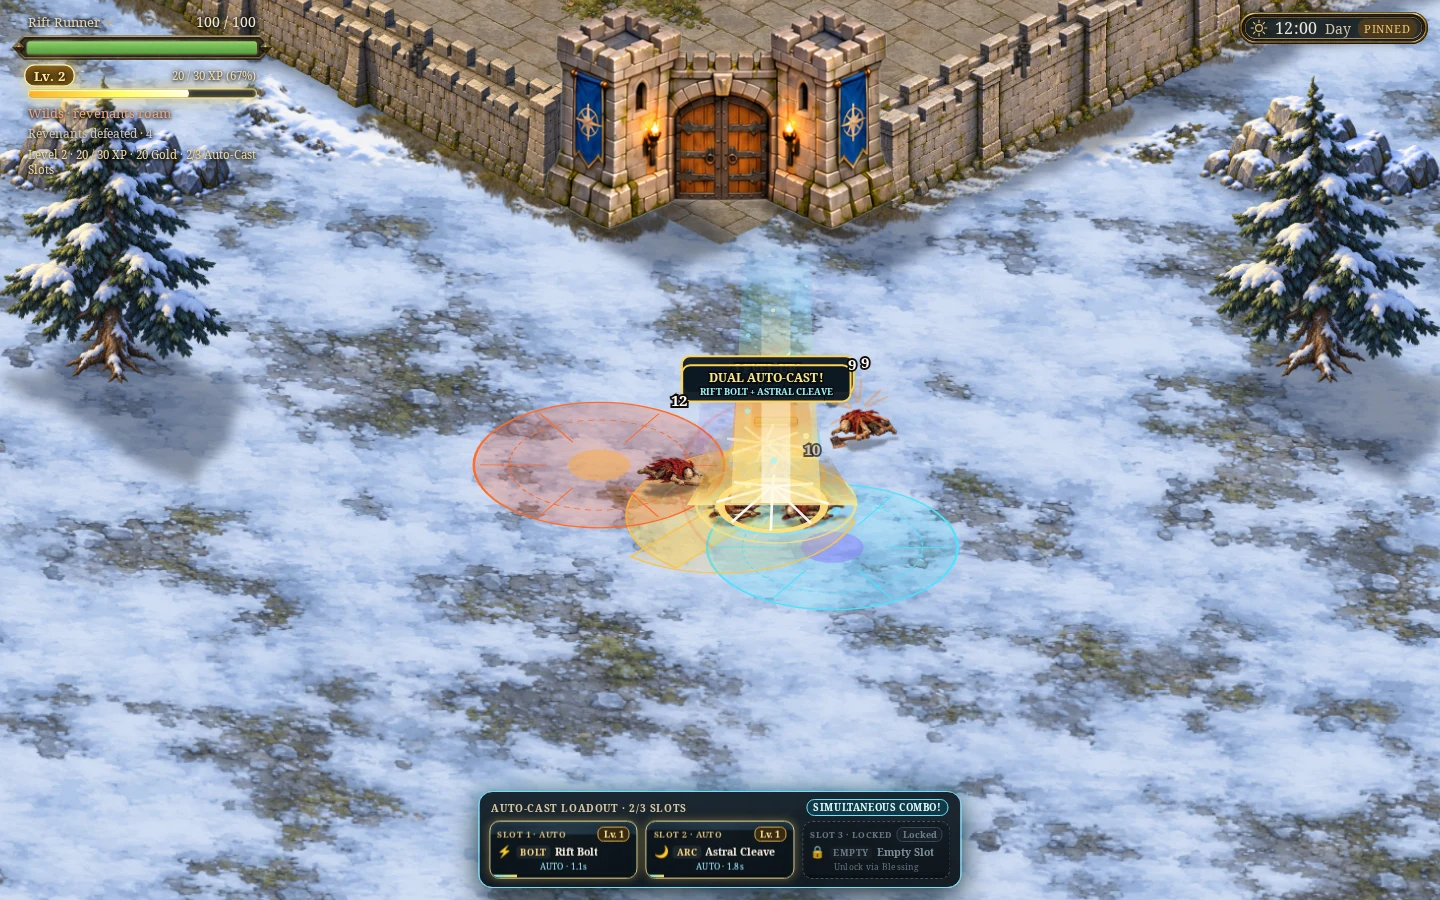
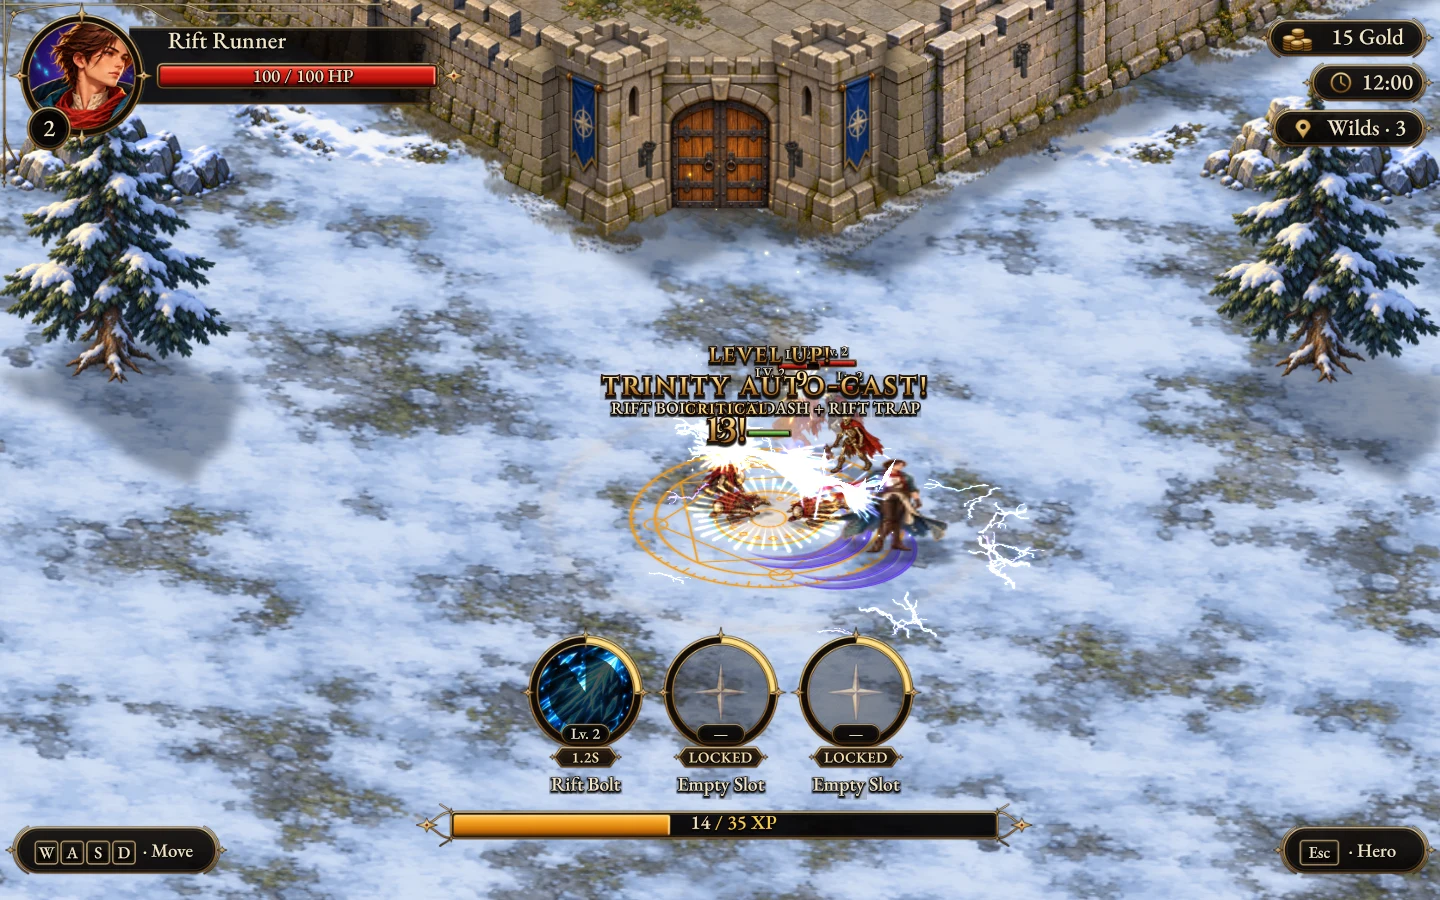
feat(combat-vfx): render flying damage, crit, combo, and level-up text without bubble or frame

diff --git a/src/stronghold/combat-vfx.ts b/src/stronghold/combat-vfx.ts
@@ -1,4 +1,4 @@
-import {Container,Graphics} from 'pixi.js';
+import {Container} from 'pixi.js';
 import {MsdfText} from '../typography/text';
 import {tilePoint} from './terrain';
 import {rollHit,reach,skillRank,skillDamageMultiplier,skillAreaMultiplier,skillCooldownMs,type Progression} from './progression';
@@ -112,11 +112,11 @@ export function createCombatVfx(o:{
  // Live counts for automated verification (scripts read snapshot()).
  const vfxStats:Record<string,string>={};
 
- // Pixi MSDF floating combat text & banner layer
+ // Pixi MSDF floating combat text & banner layer (frameless / bubble-free)
  const floatsLayer=new Container();
  floatsLayer.zIndex=45;
  o.layer.addChild(floatsLayer);
- type FloatView={root:Container;badge:Graphics;main:MsdfText;sub?:MsdfText;kind:FloatKind;text:string;subtext?:string};
+ type FloatView={root:Container;main:MsdfText;sub?:MsdfText;kind:FloatKind;text:string;subtext?:string};
  const floatViews=new Map<number,FloatView>();
 
  let nextId=1,origin={x:0,y:0,scale:1};
@@ -532,48 +532,32 @@ export function createCombatVfx(o:{
   fx.frame(fxDtMs/1000);fxDtMs=0;
   const k=origin.scale;
 
-  // MSDF Floating Combat Text & Level-Up / Trinity Combo Banner
+  // MSDF Floating Combat Text & Level-Up / Trinity Combo Text (frameless, no bubble/badge)
   const activeFloatIds=new Set<number>();
   for(const fl of floats){
    activeFloatIds.add(fl.id);
    let fv=floatViews.get(fl.id);
    if(!fv){
     const root=floatsLayer.addChild(new Container());
-    const badge=root.addChild(new Graphics());
-    if(fl.kind==='crit'){
-     const drawStar=(rx:number,ry:number,pts:number,color:number)=>{
-      const poly:number[]=[];
-      for(let i=0;i<pts*2;i++){
-       const a=(i*Math.PI)/pts-Math.PI/2;
-       const r=i%2===0?1:(i%4===1?.56:.68);
-       poly.push(Math.cos(a)*rx*r,Math.sin(a)*ry*r);
-      }
-      badge.poly(poly,true).fill({color,alpha:0.95}).stroke({color:0x240404,width:2});
-     };
-     drawStar(44,26,12,0xd61f1f);
-     drawStar(34,19,12,0xff9f1c);
-    }else if(fl.kind==='banner'){
-     const hasSub=Boolean(fl.subtext);
-     const bw=hasSub?Math.max(190,Math.min(280,(fl.subtext?.length??0)*6.2+34)):154;
-     const bh=hasSub?44:34;
-     badge.roundRect(-bw/2,-bh/2,bw,bh,8).fill({color:0x140d07,alpha:0.92}).stroke({color:0xe2bd72,width:2});
-    }
     const role=fl.kind==='crit'?'combat-crit':fl.kind==='banner'?'combat-banner':fl.kind==='incoming'?'combat-incoming':fl.kind==='heal'?'combat-heal':'combat-hit';
-    const main=root.addChild(new MsdfText(role,fl.text,fl.kind==='banner'?{size:18}:{size:fl.kind==='crit'?24:18}));
+    const main=root.addChild(new MsdfText(role,fl.text,fl.kind==='banner'?{size:20}:{size:fl.kind==='crit'?26:19}));
     let sub:MsdfText|undefined;
     if(fl.subtext){
      sub=root.addChild(new MsdfText(fl.kind==='crit'?'combat-crit-label':'combat-banner-sub',fl.subtext,fl.kind==='banner'?{size:13}:{size:11}));
     }
     if(fl.kind==='crit'){
-     if(sub)sub.place(0,-10,0.5);
+     if(sub)sub.place(0,-12,0.5);
      main.place(0,8,0.5);
     }else if(fl.kind==='banner'){
      main.place(0,sub?-2:6,0.5);
      if(sub)sub.place(0,14,0.5);
+    }else if(fl.kind==='heal'&&sub){
+     sub.place(0,-9,0.5);
+     main.place(0,7,0.5);
     }else{
      main.place(0,6,0.5);
     }
-    fv={root,badge,main,sub,kind:fl.kind,text:fl.text,subtext:fl.subtext};
+    fv={root,main,sub,kind:fl.kind,text:fl.text,subtext:fl.subtext};
     floatViews.set(fl.id,fv);
    }
    const base=toScreen(fl.u,fl.v),t=fl.age/fl.duration;
@@ -632,7 +616,7 @@ export function createCombatVfx(o:{
   shakeOffset,
   cooldown:(id:SkillId)=>Math.max(0,cooldowns[id]??0),
   snapshot:()=>({
-   activeFloats:floats.map(f=>({kind:f.kind,text:f.text,subtext:f.subtext,u:+f.u.toFixed(2),v:+f.v.toFixed(2),scale:+f.scale.toFixed(2)})),
+   activeFloats:floats.map(f=>{const fv=floatViews.get(f.id);const hasBubbleOrFrame=Boolean(fv&&fv.root.children.some(c=>!(c instanceof MsdfText)));return {kind:f.kind,text:f.text,subtext:f.subtext,u:+f.u.toFixed(2),v:+f.v.toFixed(2),scale:+f.scale.toFixed(2),frameless:!hasBubbleOrFrame};}),
    activeProjectiles:projectiles.map(p=>({id:p.id,kind:p.kind,u:+p.u.toFixed(2),v:+p.v.toFixed(2),vx:+p.vx.toFixed(2),vy:+p.vy.toFixed(2),traveled:+p.traveled.toFixed(2)})),
    activeAoEs:aoes.map(a=>({id:a.id,kind:a.kind,shape:a.shape,u:+a.u.toFixed(2),v:+a.v.toFixed(2),radius:+a.radius.toFixed(2),progress:+(a.age/a.duration).toFixed(2)})),
    activeImpacts:impacts.map(i=>({id:i.id,kind:i.kind,u:+i.u.toFixed(2),v:+i.v.toFixed(2),radius:+i.radius.toFixed(2)})),

diff --git a/src/typography/tokens.ts b/src/typography/tokens.ts
@@ -64,14 +64,14 @@ export const ROLES={
  // World overhead labels (allies, enemies, gates).
  'tag-ally':{font:'body',size:15,letterSpacing:.3,fill:IVORY,shadow:snowShadow,outline:{color:0x0a0604,alpha:.85,width:.9}},
  'tag-foe':{font:'body',size:13,letterSpacing:.3,fill:0xf2e4c4,shadow:snowShadow,outline:{color:0x0a0604,alpha:.85,width:.8}},
- // Floating combat text & banners.
- 'combat-hit':{font:'display',size:22,letterSpacing:.4,fill:0xffe69c,outline:darkOutline,shadow:displayShadow},
- 'combat-crit':{font:'display',size:30,letterSpacing:.5,fill:GOLD_GRADIENT,outline:darkOutline,shadow:displayShadow,glow:warmGlow},
- 'combat-crit-label':{font:'display',size:11,letterSpacing:1.6,fill:0xffdf7a,outline:darkOutline,shadow:softShadow,uppercase:true},
- 'combat-incoming':{font:'display',size:20,letterSpacing:.3,fill:0xff6452,outline:{color:0x1a0404,alpha:.95,width:1.3},shadow:displayShadow},
- 'combat-heal':{font:'display',size:19,letterSpacing:.3,fill:0x8effa8,outline:{color:0x061a0a,alpha:.95,width:1.2},shadow:displayShadow},
- 'combat-banner':{font:'display',size:28,letterSpacing:2.4,fill:GOLD_GRADIENT,outline:darkOutline,shadow:displayShadow,glow:warmGlow,uppercase:true},
- 'combat-banner-sub':{font:'body',size:16,letterSpacing:.6,fill:IVORY_DIM,outline:{color:0x0a0604,alpha:.85,width:.9},shadow:softShadow},
+ // Floating combat text & banners (frameless / bubble-free: crisp MSDF glyphs with subtle drop shadow, no dark glyph box).
+ 'combat-hit':{font:'display',size:23,letterSpacing:.4,fill:0xffe69c,outline:{color:0x1a0c04,alpha:.95,width:1.4},shadow:{color:0x000000,alpha:.85,dx:0,dy:2,softness:1.4}},
+ 'combat-crit':{font:'display',size:32,letterSpacing:.5,fill:GOLD_GRADIENT,outline:{color:0x220c02,alpha:.96,width:1.5},shadow:{color:0x000000,alpha:.88,dx:0,dy:2.2,softness:1.5},glow:warmGlow},
+ 'combat-crit-label':{font:'display',size:12,letterSpacing:1.6,fill:0xffdf7a,outline:{color:0x220c02,alpha:.95,width:1.2},shadow:{color:0x000000,alpha:.85,dx:0,dy:1.5,softness:1.2},uppercase:true},
+ 'combat-incoming':{font:'display',size:21,letterSpacing:.3,fill:0xff6452,outline:{color:0x1a0404,alpha:.95,width:1.4},shadow:{color:0x000000,alpha:.85,dx:0,dy:2,softness:1.4}},
+ 'combat-heal':{font:'display',size:20,letterSpacing:.3,fill:0x8effa8,outline:{color:0x061a0a,alpha:.95,width:1.3},shadow:{color:0x000000,alpha:.85,dx:0,dy:2,softness:1.4}},
+ 'combat-banner':{font:'display',size:28,letterSpacing:2.4,fill:GOLD_GRADIENT,outline:{color:0x1e0e03,alpha:.96,width:1.5},shadow:{color:0x000000,alpha:.88,dx:0,dy:2.2,softness:1.5},glow:warmGlow,uppercase:true},
+ 'combat-banner-sub':{font:'body',size:16,letterSpacing:.6,fill:IVORY,outline:{color:0x0e0703,alpha:.92,width:1.1},shadow:{color:0x000000,alpha:.82,dx:0,dy:1.5,softness:1.2}},
  // Popover panels, modals, blessings & loading screen.
  'panel-title':{font:'display',size:16,letterSpacing:1.4,fill:GOLD_GRADIENT,outline:{color:0x221104,alpha:.9,width:1},shadow:softShadow,uppercase:true},
  'panel-label':{font:'display',size:12,letterSpacing:1.6,fill:GOLD_LABEL,shadow:softShadow,uppercase:true},

diff --git a/server/internal/server/webp.go b/server/internal/server/webp.go
@@ -81,7 +81,7 @@ var maxDisplayWidths = map[string]int{
 	"/modular-stronghold/barrel.png":                 256,
 }
 
-const cacheSchemaVersion = "v2"
+const cacheSchemaVersion = "v3"
 
 // webpCacheDir returns the directory where converted WebP files are persisted.
 func (s *Server) webpCacheDir() string {
@@ -105,6 +105,9 @@ func acceptsWebP(r *http.Request) bool {
 	if r.URL.Query().Get("format") == "png" || r.URL.Query().Get("raw") == "1" {
 		return false
 	}
+	if strings.Contains(r.URL.Path, "/fonts/") {
+		return false
+	}
 	accept := r.Header.Get("Accept")
 	if accept == "" {
 		return true
@@ -116,19 +119,28 @@ func acceptsWebP(r *http.Request) bool {
 
 // cleanTransparentNRGBA converts an image to NRGBA and zeroes out RGB values where
 // Alpha == 0. Removing invisible RGB noise under transparent pixels preserves 100%
-// bit-exact visual output while substantially improving lossless VP8L compression.
+// bit-exact visual output for regular sprites while substantially improving lossless
+// VP8L compression.
 func cleanTransparentNRGBA(src image.Image) *image.NRGBA {
+	return toNRGBA(src, false)
+}
+
+func toNRGBA(src image.Image, preserveRGBUnderZeroAlpha bool) *image.NRGBA {
 	b := src.Bounds()
 	w, h := b.Dx(), b.Dy()
 	if nrgba, ok := src.(*image.NRGBA); ok && b.Min.X == 0 && b.Min.Y == 0 && nrgba.Stride == w*4 {
 		clone := image.NewNRGBA(image.Rect(0, 0, w, h))
 		copy(clone.Pix, nrgba.Pix)
-		zeroTransparentPixels(clone.Pix)
+		if !preserveRGBUnderZeroAlpha {
+			zeroTransparentPixels(clone.Pix)
+		}
 		return clone
 	}
 	dst := image.NewNRGBA(image.Rect(0, 0, w, h))
 	draw.Draw(dst, dst.Bounds(), src, b.Min, draw.Src)
-	zeroTransparentPixels(dst.Pix)
+	if !preserveRGBUnderZeroAlpha {
+		zeroTransparentPixels(dst.Pix)
+	}
 	return dst
 }
 
@@ -176,7 +188,10 @@ func ConvertPNGToWebP(cleanURLPath, pngFile, cacheFile string, srcModTime time.T
 		return 0, err
 	}
 
-	nrgba := cleanTransparentNRGBA(img)
+	// MSDF font atlases (/fonts/) encode signed distance fields in R, G, B even when alpha is 0.
+	// Never strip RGB under alpha=0 or convert MSDF font atlases to WebP because WebP lossless
+	// predictors can alter RGB under zero alpha; serve raw PNG for MSDF font atlases.
+	nrgba := toNRGBA(img, strings.Contains(cleanURLPath, "/fonts/"))
 	if maxW, ok := maxDisplayWidths[cleanURLPath]; ok && nrgba.Bounds().Dx() > maxW {
 		nrgba = scaleCatmullRomNRGBA(nrgba, maxW)
 	}

diff --git a/docs/combat-vfx/knowledge.md b/docs/combat-vfx/knowledge.md
@@ -18,10 +18,11 @@ Combat hits now distinguish normal blows, Ragnarok Online style critical hits, i
 
 | Event Type | Visual Treatment | Mechanics & Scaling |
 | --- | --- | --- |
-| **Normal Hit** | Crisp white integer (`10`) with bold dark outline (`#120b07`), short parabolic upward/sideways hop, and 6-ray white/amber hit spark sprite | Base `1.0x` hero attack damage (`damage(run)`) |
-| **Critical Hit (RO Style)** | Spiky 12-point crimson/gold burst badge behind larger yellow-gold gradient numbers (`15!`) with `CRITICAL` header, `1.42x -> 1.0x` pop-in scale, micro hit-shake on target, and twin crimson/gold cross-slash burst sprite | Base `15%` `critChance(run)` (`+4%` per *Titan Strike* or *Ascendant Star* rank, `+10%` per `crit` rank) and `1.5x–2.0x` `critMultiplier(run)` |
-| **Incoming Hero Damage** | Crisp red numbers (`-4`) with dark crimson outline + red impact spark | Triggered when revenant melee attacks land |
-| **Heal & Lifesteal** | Emerald green `+HP` numbers (`+2 HP`, `+35 HP`, `+8 HP`) floating upward | Triggered on *Soul Feast* kill sustain, *Second Wind* / *Vitality* / *Ascendant Star* picks, and Safe Zone regeneration |
+| **Normal Hit** | Crisp frameless MSDF gold-ivory integer (`10`) with dark outline (`#1a0c04`) and drop shadow, short parabolic upward/sideways hop, and 6-ray white/amber hit spark | Base `1.0x` hero attack damage (`damage(run)`) |
+| **Critical Hit (RO Style)** | Frameless (no bubble/starburst frame) larger yellow-gold gradient MSDF numbers (`15!`) with floating `CRITICAL` header, `1.42x -> 1.0x` pop-in scale, micro hit-shake on target, and twin crimson/gold cross-slash burst | Base `15%` `critChance(run)` (`+4%` per *Titan Strike* or *Ascendant Star* rank, `+10%` per `crit` rank) and `1.5x–2.0x` `critMultiplier(run)` |
+| **Combo / Level-Up Text** | Frameless gold-gradient MSDF floating text (`TRINITY AUTO-CAST!`, `DUAL AUTO-CAST!`, `LEVEL UP!`) with ivory subtext (`RIFT BOLT + RIFT DASH + RIFT TRAP`, `LV. X`), rendered without any background box or border bubble | Triggered on simultaneous multi-slot auto-casts and level progression |
+| **Incoming Hero Damage** | Crisp frameless red MSDF numbers (`-4`) with dark crimson outline + red impact spark | Triggered when revenant melee attacks land |
+| **Heal & Lifesteal** | Emerald green frameless `+HP` MSDF numbers (`+2 HP`, `+35 HP`, `+8 HP`) floating upward | Triggered on *Soul Feast* kill sustain, *Second Wind* / *Vitality* / *Ascendant Star* picks, and Safe Zone regeneration |
 
 ## Combat Architecture, Projectiles & 2:1 Isometric AoE Layers
 
